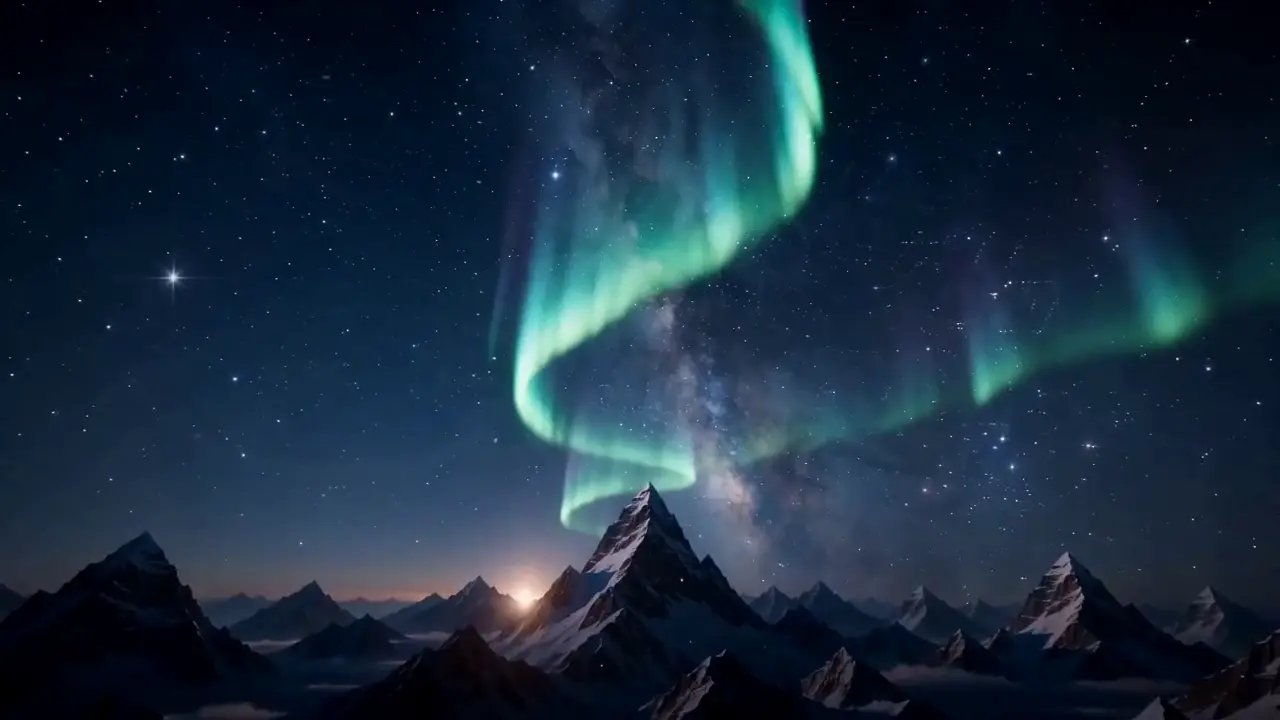
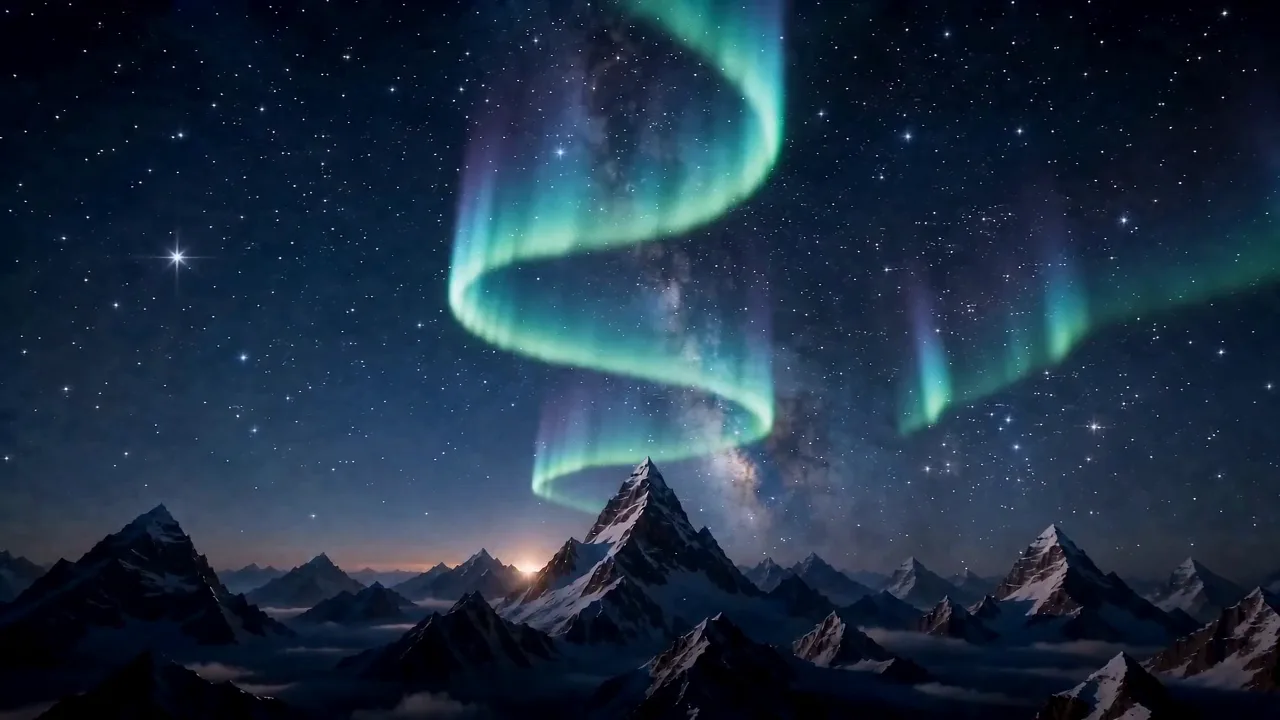
feat: living-painting video loop as the Portal Hero's primary scene (§9.7 LP-1)
Sindbad generated a 15s living-painting render of the sting scene (aurora-S
over the peak) that almost loops. Derived a SEAMLESS ~13s loop via 2s
tail-into-head xfade crossfade (endpoint frames differ by 0.7% avg luma —
invisible), encoded h264 crf30 720p = 0.99MB (under the 1.5MB budget, no
banding on the night gradients).

Ladder: video loop (primary, wide viewports) > still + CSS aurora/star/haze
overlays (mobile, Save-Data, autoplay-blocked, file missing) > still (no-JS /
reduced-motion / watchdog). The poster pair portal-scene.{avif,webp} is
regrabbed from the loop's frame 0, so the video fades in over its own
identical first frame — pixel-continuous handoff, and the endcard/fallback
art now matches the loop exactly.

Wiring: no src in markup (preload=none; engine mounts at idle, wide-only,
never under Save-Data) so LCP and every static path stay untouched. Playback
ties to the ambient gate (p>0.8): scroll-out pauses, reopen resumes. On
'playing', .portal-video-live fades the loop in and stands the CSS overlays
down (no double aurora). __PORTAL QA hook gains video()/forceLoop().

MEDIA-GUIDE: new §1b documents the three-file swap contract (loop + poster
pair = frame 0) and the tested xfade seamless-loop recipe.

Verified: full ladder in preview (mount/play/fade/stand-down, pause at p<0.8,
mobile refuses mount, ?portal=static inert — zero bytes). Lighthouse home:
perf 100, FCP 674ms, LCP 919ms, TBT 7.5ms, CLS 0.002. Build + audits clean.

diff --git a/src/styles/global.css b/src/styles/global.css
@@ -788,6 +788,22 @@
     height: 100%;
     object-fit: cover;
   }
+  /* LP-1 primary: the living-painting loop. Sits over the still; invisible
+     until the engine confirms real playback (.portal-video-live), then fades
+     in over its own identical first frame — a pixel-continuous handoff. */
+  .portal-loop {
+    position: absolute;
+    inset: 0;
+    width: 100%;
+    height: 100%;
+    object-fit: cover;
+    opacity: 0;
+    transition: opacity 700ms var(--ease-survey);
+    pointer-events: none;
+  }
+  .portal-video-live .portal-loop {
+    opacity: 1;
+  }
   /* LP-1 living portrait — additive light over the still. Default (endcard /
      no-JS / reduced motion) renders it statically with motion PAUSED; the
      engine drives .portal-life opacity and adds .portal-ambient to run the

diff --git a/MEDIA-GUIDE.md b/MEDIA-GUIDE.md
@@ -84,6 +84,36 @@ files listed below.
   />
   ```
 
+### 1b. `/` home — the Portal Hero living painting (brand art; already filled)
+
+- **What's there now:** the hero's scene is a "living painting" — a seamless ~13s loop of
+  the brand sting's aurora-mountain world (`portal-loop.mp4`, ≤1.5MB) over a poster still.
+  The loop mounts at idle on wide viewports only; mobile / Save-Data / no-JS / reduced
+  motion get the still (with lightweight CSS aurora/star overlays as the mid-tier).
+- **To swap the scene:** replace ALL THREE files in `public/media/home/` — no code changes:
+  - `portal-loop.mp4` — muted seamless loop, 1280×720, ≤1.5MB (H.264, crf ~30 works for
+    dark scenes)
+  - `portal-scene.avif` + `portal-scene.webp` — **must be frame 0 of the loop** (the video
+    fades in over this exact frame; a mismatched poster = a visible jump). Extract it:
+    `ffmpeg -i portal-loop.mp4 -vf "select=eq(n\,0)" -frames:v 1 frame0.png`, then use the
+    poster recipe below.
+- **Making a near-loop seamless** (a generated clip that almost-but-not-quite loops):
+  crossfade the tail into the head. For a clip of length `T` seconds with a `D`-second blend
+  (D=2 is a good default for slow ambient motion):
+  ```
+  ffmpeg -i in.mp4 -filter_complex "[0:v]split[a][b];\
+  [a]trim=start=D,setpts=PTS-STARTPTS[main];\
+  [b]trim=duration=D,setpts=PTS-STARTPTS[head];\
+  [main][head]xfade=transition=fade:duration=D:offset=OFFSET[v]" \
+  -map "[v]" -an -c:v libx264 -crf 30 -preset slow -pix_fmt yuv420p \
+  -movflags +faststart out.mp4
+  ```
+  where `OFFSET = T - 2×D` (e.g. T=15.04, D=2 → offset=11.04). The output loops perfectly
+  because its last frame *is* its first frame. Verify: extract both endpoint frames and eyeball.
+- **HONESTY NOTE:** this scene is AI-generated **brand art** — the logo's world. It lives in
+  the hero as brand identity and must never appear in Work/Adventure gallery contexts where
+  it could read as shot footage.
+
 ### 2. `/adventure` — the gallery (the most important slot on the site)
 
 See **Worked Example 2** below — this is the photo-first priority's #1 target.